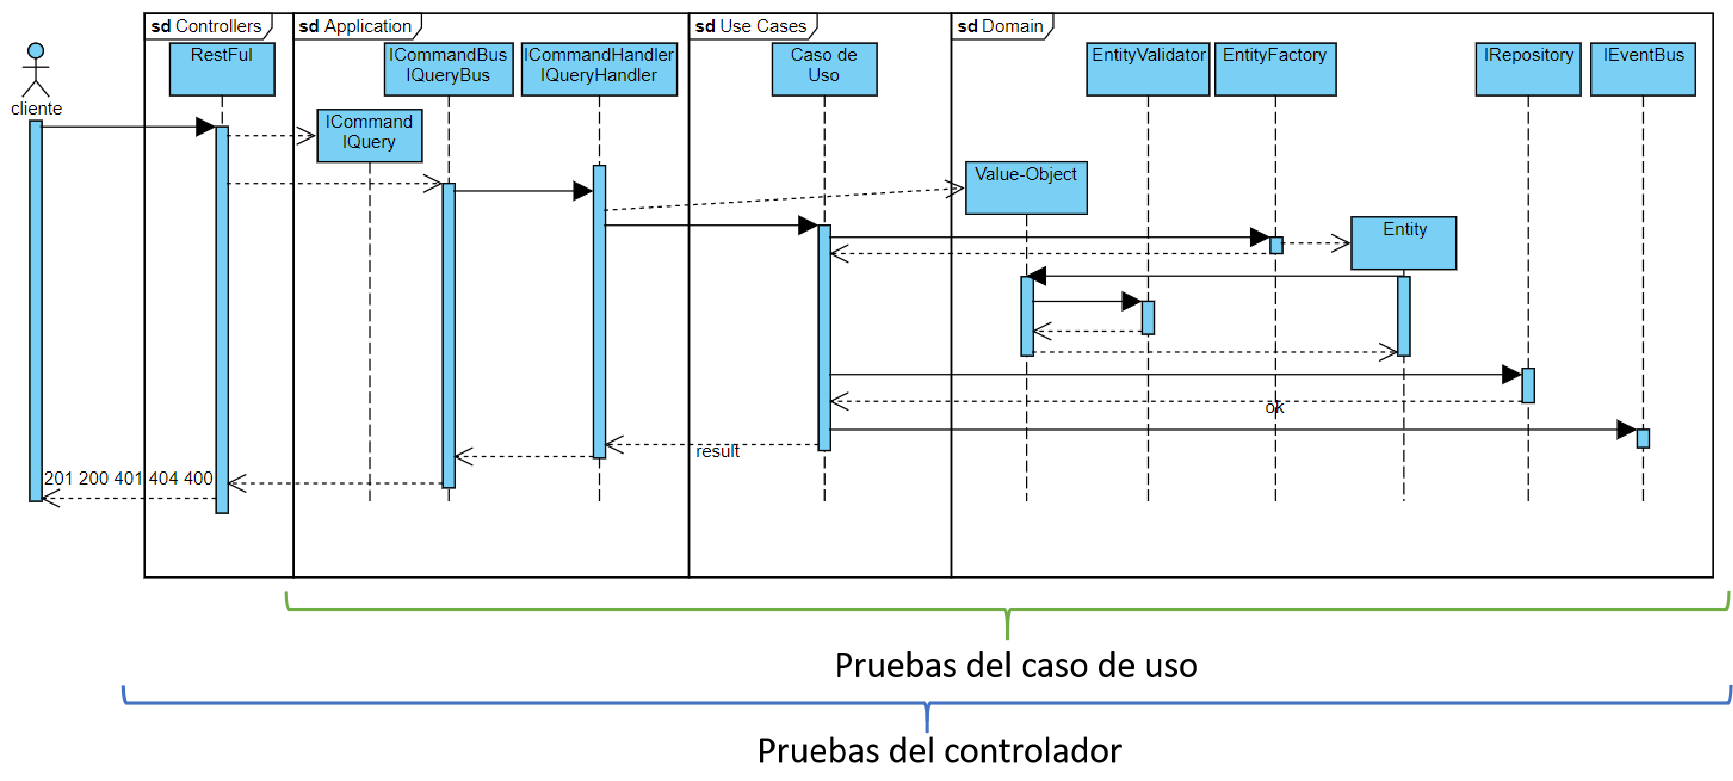
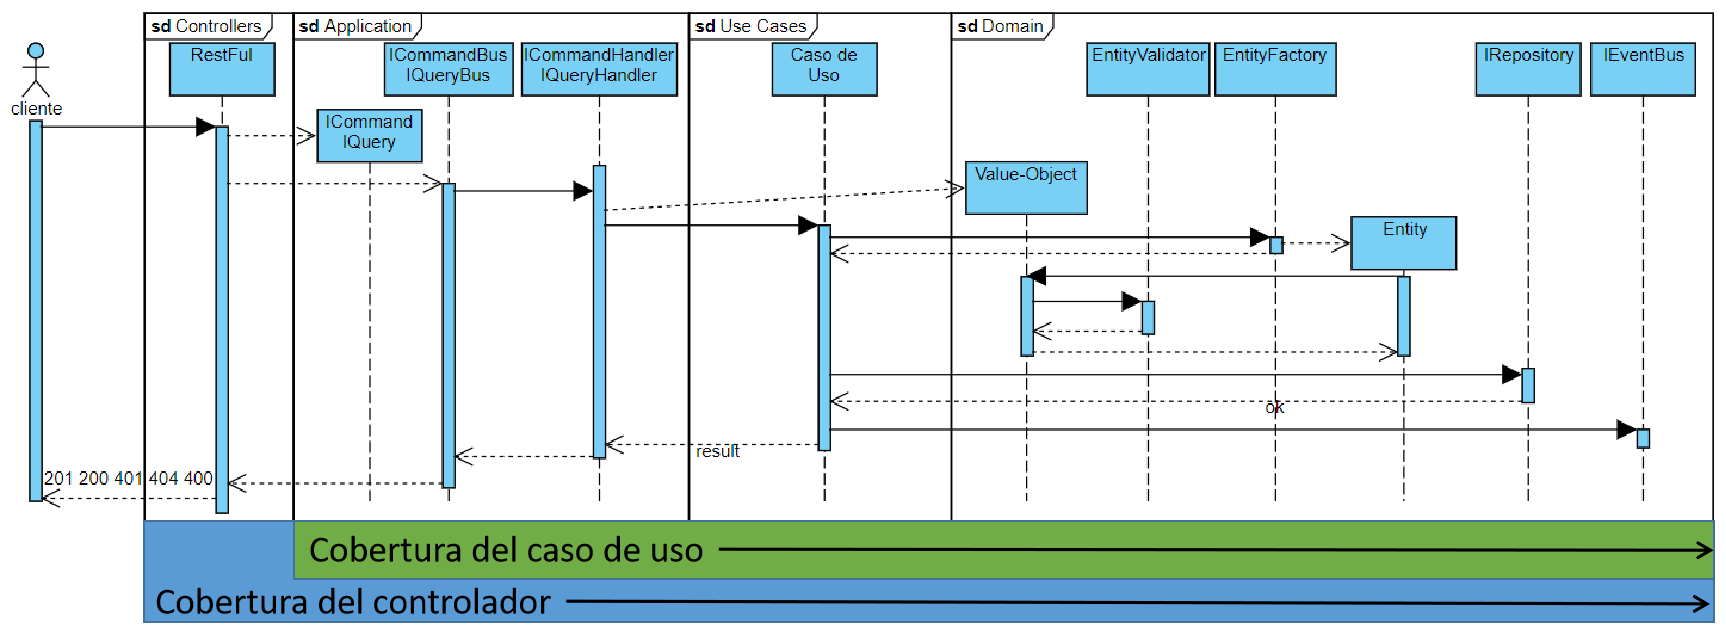
Documentando la cobertura de las pruebas unitarias

diff --git a/README.md b/README.md
@@ -12,6 +12,12 @@ Proyecto de referencia para construir aplicaciones Spring Boot. La siguiente es 
 ## Cobertura de las pruebas unitarias del componente
 ![Cobertura de las pruebas](https://github.com/gotorresevo/proyecto-base-spring-boot/raw/master/assets/ComponentTest.png "Cobertura de las pruebas")
 
+## Cobertura de casos de usos
+Cubre las capas de:  application, usecases y Domain. Para esta cobertura se propone Mockear los objetos de tipo "IRepository" y "IEventBus". La intension de esta cobertura es validar que el caso de uso cumple con los requisitos del negocio.
+
+## Cobertura de Controladores
+Cubre las capas de:  controllers, application, usecases y Domain. Para esta cobertura se propone Mockear los objetos de tipo "IRepository" y "IEventBus". La intension de esta cobertura es validar que el controlador reciba y retorne lo especificado en el Open Api Specification (Swagger).  
+
 ### Enlaces de interes
 [Ver como se implemento el modulo Shopping](https://github.com/gotorresevo/proyecto-base-spring-boot/tree/master/src/main/java/com/evobank/shopping)  
 [Ver como se implemento el submodulo CARTS del modulo Shopping](https://github.com/gotorresevo/proyecto-base-spring-boot/tree/master/src/main/java/com/evobank/shopping/submodules/carts)  
